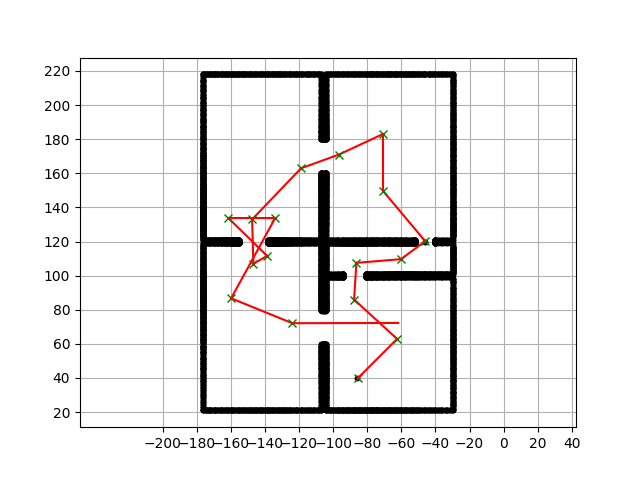
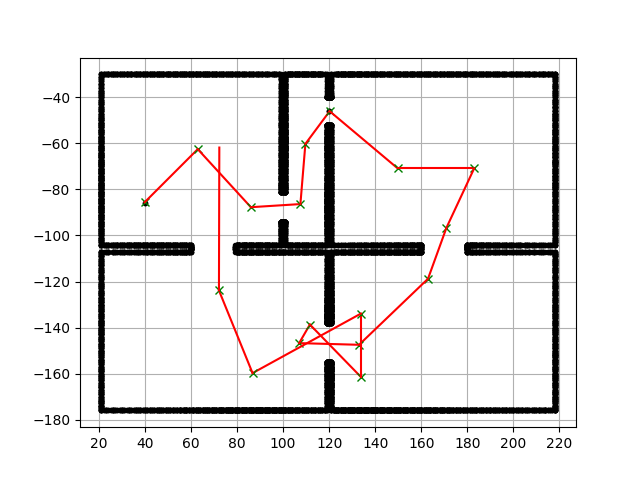
[Fix] x and y are reversed

Changed region(s): [[0.0625, 0.125, 0.9062, 0.9375], [0.125, 0.9062, 0.1875, 0.9375]]

diff --git a/process.py b/process.py
@@ -35,8 +35,8 @@ def parse_flight_path(path):
                 pos_x.append([])
                 pos_y.append([])
             else:
-                pos_y[sweep].append(float(row[0])*10)
-                pos_x[sweep].append(float(row[1])*10)
+                pos_x[sweep].append(float(row[0])*10)
+                pos_y[sweep].append(float(row[1])*10)
                 length-=1
     return sweep
 
@@ -70,8 +70,8 @@ def prase_LIDAR(path):
                 theta[sweep].append(float(theta_))
                 z[sweep].append(float(z_))
                 #The final position is x + position of the dron in current sweep            
-                lidar_x[sweep].append(np.sin( float(theta_) * np.pi/180) * float(z_) - pos_x[sweep][0])
-                lidar_y[sweep].append(np.cos( float(theta_) * np.pi/180) * float(z_) + pos_y[sweep][0])                
+                lidar_x[sweep].append(np.cos( float(theta_) * np.pi/180) * float(z_) + pos_x[sweep][0])
+                lidar_y[sweep].append(np.sin( float(theta_) * np.pi/180) * float(z_) - pos_y[sweep][0])                
                 length-=1
     return sweep
 
@@ -101,7 +101,7 @@ def visualize_data_2D(VISUALIZE_SWEEP, sweep):
             ax.scatter(lidar_x[i][:], lidar_y[i][:], s=5, c=np.array([colors]), marker='o') #LIDAR
             ax.scatter(-pos_x[i][0], pos_y[i][0], s=100, c=np.array([colors]), marker='P') #DRONE
         ax_c.scatter(lidar_x[i][:], lidar_y[i][:], s=5, c=np.array([colors]), marker='o') #LIDAR
-        ax_c.scatter(-pos_x[i][0], pos_y[i][0], s=100, c=np.array([colors]), marker='P') #DRONE
+        ax_c.scatter(pos_x[i][0], -pos_y[i][0], s=100, c=np.array([colors]), marker='P') #DRONE
 
 def visualize_data_3D(VISUALIZE_SWEEP, sweep):
     # <summary>
@@ -150,10 +150,10 @@ def visualize_trajectory(sweep):
     for i in range(sweep):
         colors=(random.uniform(0, 1), random.uniform(0, 1), random.uniform(0, 1))
         plt.plot(lidar_x[i][:], lidar_y[i][:], 'bo') #LIDAR
-        ax.scatter(-pos_x[i][0], pos_y[i][0], s=100, c=np.array([colors]), marker='P') #DRONE
-        ax.text(-pos_x[i][0], pos_y[i][0], s=i, fontsize=12) #SWEEP
+        ax.scatter(pos_x[i][0], -pos_y[i][0], s=100, c=np.array([colors]), marker='P') #DRONE
+        ax.text(pos_x[i][0], -pos_y[i][0], s=i, fontsize=12) #SWEEP
         if(i<sweep-1):
-            plt.plot([-pos_x[i][0], -pos_x[i+1][0]], [pos_y[i][0], pos_y[i+1][0]], 'rx-')
+            plt.plot([pos_x[i][0], pos_x[i+1][0]], [-pos_y[i][0], -pos_y[i+1][0]], 'rx-')
 
 def find_min_max(x, y):
     max_x = np.amax(np.amax(x))
@@ -182,11 +182,11 @@ def flight_reroute(start, goal, sweep):
     height = int(np.round(np.abs(max_y) + np.abs(min_y))) 
 
     #[decimeter]
-    sx = int(-pos_x_[start][0]) 
-    sy = int(pos_y_[start][0]) 
-    gx = int(-pos_x_[goal-1][0]) 
-    gy = int(pos_y_[goal-1][0]) 
-    grid_size = 8.0 
+    sx = int(pos_x_[start][0]) 
+    sy = int(-pos_y_[start][0]) 
+    gx = int(pos_x_[goal-1][0]) 
+    gy = int(-pos_y_[goal-1][0]) 
+    grid_size = 5.0 
     robot_radius = 1.0  
 
     # set obstacle positions
@@ -255,12 +255,11 @@ def flight_optimization(start, goal, sweep):
     gy = [] 
 
     for i in range (start, goal, 3):
-        print(i)
-        gx.append(int(-pos_x_[i][0])) 
-        gy.append(int(pos_y_[i][0])) 
+        gx.append(int(pos_x_[i][0])) 
+        gy.append(int(-pos_y_[i][0])) 
     if(goal%3!=0):
-        gx.append(int(-pos_x_[goal-1][0]))
-        gy.append(int(pos_y_[goal-1][0])) 
+        gx.append(int(pos_x_[goal-1][0]))
+        gy.append(int(-pos_y_[goal-1][0])) 
     
     a_star = AStarPlanner(ox, oy, grid_size, robot_radius, True)
     rx = []
@@ -283,8 +282,8 @@ def flight_optimization(start, goal, sweep):
     plt.axis("equal")
 
     for i in range(sweep):
-        plt.plot(-pos_x_[i][0], pos_y_[i][0], 'xg')
-        plt.plot([-pos_x_[i][0], -pos_x_[i+1][0]], [pos_y_[i][0], pos_y_[i+1][0]], '-r')
+        plt.plot(pos_x_[i][0], -pos_y_[i][0], 'xg')
+        plt.plot([pos_x_[i][0], pos_x_[i+1][0]], [-pos_y_[i][0], -pos_y_[i+1][0]], '-r')
 
     
 

diff --git a/README.md b/README.md
@@ -44,11 +44,8 @@ To visualize each sweep of the LIDAR in different window change the flag to True
 -Data visualization
 ![Data visualization](https://github.com/andreivan/Scoville/blob/master/results/trajectory_and_lidar.png?raw=true)
 
--First sweep
-![Sweep #0](https://github.com/andreivan/Scoville/blob/master/results/sweep_0.png?raw=true)
-
--Last sweep
-![Sweep #16](https://github.com/andreivan/Scoville/blob/master/results/sweep_16.png?raw=true)
+-Combined map
+![Sweep #0](https://github.com/andreivan/Scoville/blob/master/results/combined.png?raw=true)
 
 -Path reroute
 ![Reroute](https://github.com/andreivan/Scoville/blob/master/results/reroute_traj.png?raw=true)
